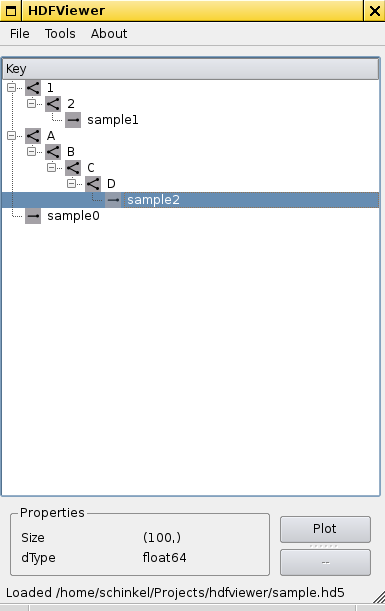
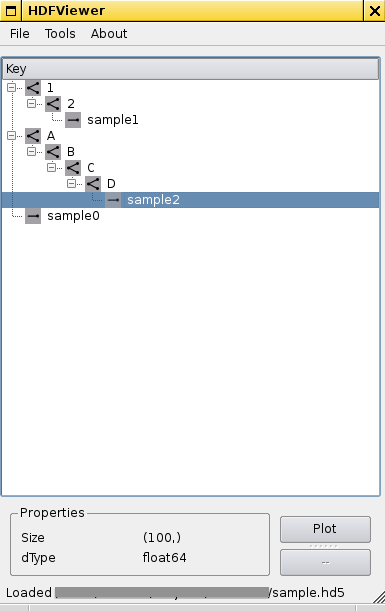
Update README and screenshot

Changed region(s): [[0.1247, 0.9329, 0.7169, 0.9951]]

diff --git a/README.md b/README.md
@@ -1,28 +1,28 @@
-README
-======
+###About
 
-About
------
 A simple python piece to browse HDF5 files. With _very_ basic plotting. Its primary purpose was to play w/ [QTreeViews](https://srinikom.github.io/pyside-docs/PySide/QtGui/QTreeView.html) and learn a bit about [HDF5](https://hdfgroup.org/HDF5/). If you're looking for a proper Python/HDF5 tool have a look at [PyTables](http://www.pytables.org/).
 
-Requirements:
--------------
+###Requirements:
 
   * PySide
   * numpy
   * h5py
   * matplotlib (for plotting)
 
-Prequesites for h5py:
----------------------
-In order to ```pip-2.7 install h5py``` a number of dependencies had to be satisfied. On my openSuse 13.1 box those where:
+####Prequesites for h5py:
+
+In order to ```pip-2.7 install h5py``` a number of dependencies had to be satisfied, but weren't solved automatically (on my openSuse 13.1 box). These packages were needed:
+
+  * cython
+  * hdf5-devel
+  * numpy-devel
+
 ```sh
-sudo zypper in python-Cython
-sudo zypper in hdf5-devel
-sudo zypper in python-numpy-devel
+# on openSuse 13.1 this
+sudo zypper in python-Cython, hdf5-devel, python-numpy-devel
 sudo pip-2.7 install h5py
 ```
 
-Screenshot:
------------
+###Screenshot:
+
 !["Run with sample data"](./screenshot.png "Run with sample data")
